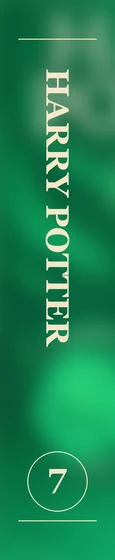
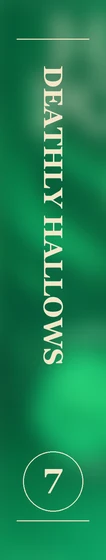
Kitoblar: jild yonida asar nomi, hamma kitob bir xil qalinlikda

diff --git a/js/07-kitoblar.js b/js/07-kitoblar.js
@@ -111,7 +111,7 @@
   function ktX() { return KT_TX[lang] || KT_TX.uz; }
   function ktNum(id) { return parseInt(id.charAt(2), 10); }
   function ktName(id) { return (KT_NOM[lang] || KT_NOM.uz)[ktNum(id) - 1]; }
-  var KT_RASM_V = "3";      // muqova rasmlari almashganda oshiring (fayl nomi o'sha - brauzer eskisini keshdan bermasin)
+  var KT_RASM_V = "5";      // muqova rasmlari almashganda oshiring (fayl nomi o'sha - brauzer eskisini keshdan bermasin)
   function ktArt(id) { return IMG_DIR + "kitob/" + id + ".webp?v=" + KT_RASM_V; }
   function ktBook(id) {
     var list = (ktData && ktData.books) || [];
@@ -171,7 +171,7 @@
      Kitoblar javonda TIK turadi (yon tomoni ko'rinadi). Bosilgan kitob javondan chiqib, muqovasi bilan
      buriladi (3D), ostida nomi va tugma chiqadi; yana bosilsa yoki tugma bosilsa - kitob sahifasi. */
   var KT_LOOK = {            // jild yonining eni (bo'yiga nisbatan) - kitob qalinligi, rasmning o'zidan
-    kt1: 0.1107, kt2: 0.1268, kt3: 0.1357, kt4: 0.2536, kt5: 0.2536, kt6: 0.2446, kt7: 0.2054
+    kt1: 0.19, kt2: 0.19, kt3: 0.19, kt4: 0.19, kt5: 0.19, kt6: 0.19, kt7: 0.19        // egasi (2026-10-09): hammasi bir xil qalinlikda
   };
   var ktSel = null;
 

diff --git a/index.html b/index.html
@@ -8,7 +8,7 @@
 <link rel="preconnect" href="https://fonts.googleapis.com">
 <link rel="preconnect" href="https://fonts.gstatic.com" crossorigin>
 <link href="https://fonts.googleapis.com/css2?family=Cormorant+Garamond:ital,wght@0,400;0,600;1,500&family=Manrope:wght@500;600;800&display=swap" rel="stylesheet">
-<link rel="stylesheet" href="css/app.css?v=d7a1159d">
+<link rel="stylesheet" href="css/app.css?v=fe151dd1">
 </head>
 <body>
 <div class="shell">
@@ -1645,7 +1645,7 @@
 <script src="js/05-umumiy.js?v=f5f0a218"></script>
 <script src="js/06-soundtrack.js?v=2f23168c"></script>
 <script src="js/07-kutubxona.js?v=e2607678"></script>
-<script src="js/07-kitoblar.js?v=8b74ffd4"></script>
+<script src="js/07-kitoblar.js?v=8bbf3928"></script>
 <script src="js/07-kitob-matn.js?v=053ca97b"></script>
 <script src="js/07-odam.js?v=18ed3043"></script>
 <script src="js/08-saralash.js?v=15498b02"></script>

diff --git a/css/app.css b/css/app.css
@@ -2418,7 +2418,7 @@ body.kr-on .mp{display:none!important}
 .kt-sp img{display:block;width:100%;height:100%;object-fit:fill}
 .kt-sp::after{content:"";position:absolute;inset:0;background:linear-gradient(90deg,rgba(0,0,0,.45),rgba(255,255,255,.07) 30%,rgba(0,0,0,0) 60%,rgba(0,0,0,.4))}
 .kt-bk.on .kt-sp{transform:rotateY(-62deg);filter:brightness(.7)}
-.kt-sp-f{position:absolute;left:50%;bottom:25%;z-index:2;width:16px;height:16px;margin-left:-8px;color:var(--gold-hi);filter:drop-shadow(0 1px 2px #000)}
+.kt-sp-f{position:absolute;left:50%;bottom:21%;z-index:2;width:16px;height:16px;margin-left:-8px;color:var(--gold-hi);filter:drop-shadow(0 1px 2px #000)}
 .kt-sp-f:empty{display:none}
 .kt-sp-f svg{display:block;width:16px;height:16px}
 .kt-fc{position:relative;flex:none;width:calc(var(--h) * .6437);height:100%;transform-origin:left;transform:rotateY(88.8deg);
